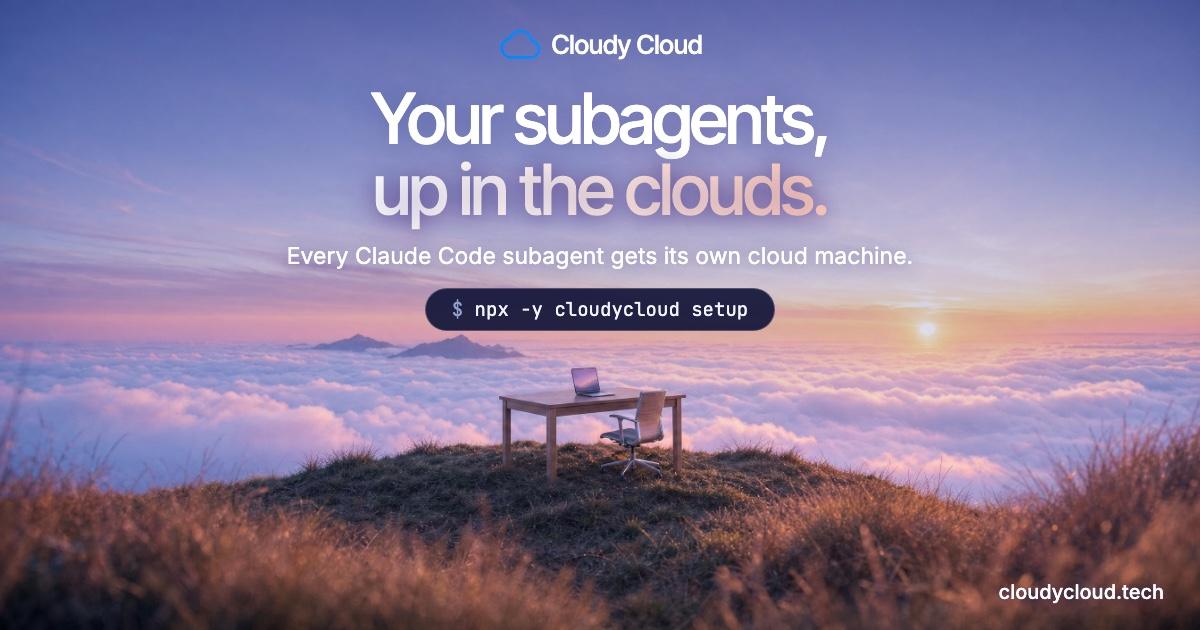
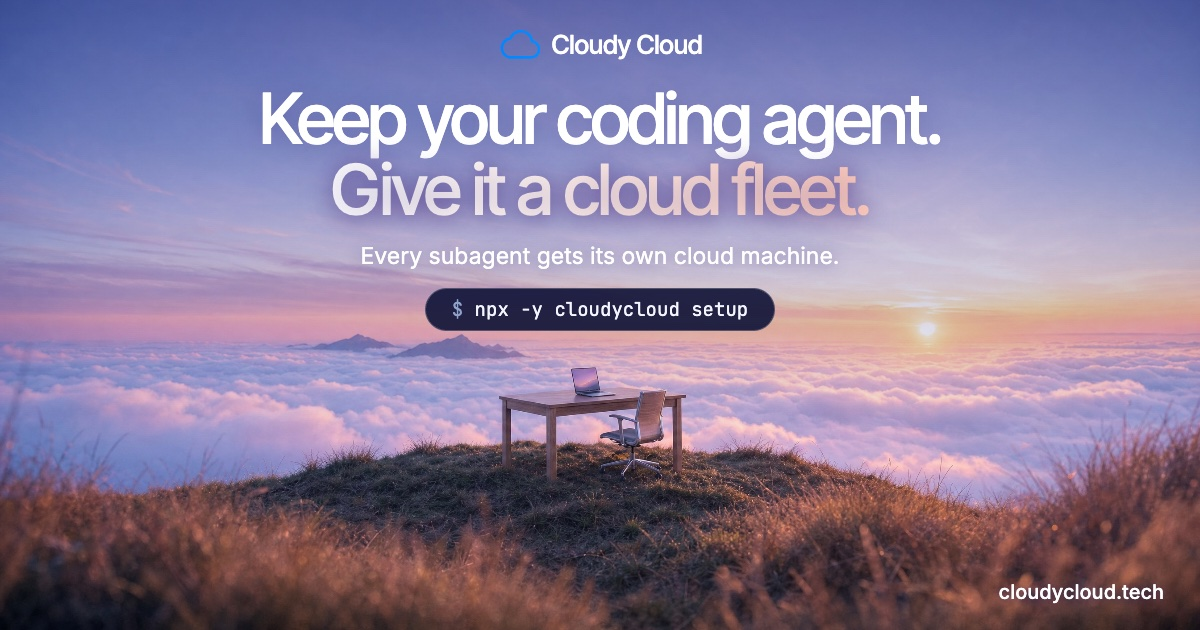
Site: new social card with the coding-agent headline, and a precise Capy machine cell
Astra review of 77486e6: the og.jpg card still showed the old headline, and
Capy subagents can share the parent's machine (docs.capy.ai/subagents), so
'an isolated VM per thread' overstated it.

Changed region(s): [[0.2158, 0.1508, 0.8017, 0.3619], [0.2158, 0.3921, 0.7708, 0.4222], [0.5242, 0.7238, 0.555, 0.754]]

diff --git a/site/index.html b/site/index.html
@@ -13,7 +13,7 @@
 <meta property="og:image" content="https://cloudycloud.tech/og.jpg">
 <meta property="og:image:width" content="1200">
 <meta property="og:image:height" content="630">
-<meta property="og:image:alt" content="Cloudy Cloud: your subagents, up in the clouds">
+<meta property="og:image:alt" content="Cloudy Cloud: keep your coding agent, give it a cloud fleet">
 <meta property="og:site_name" content="Cloudy Cloud">
 <meta name="twitter:card" content="summary_large_image">
 <meta name="twitter:image" content="https://cloudycloud.tech/og.jpg">
@@ -608,7 +608,7 @@
     <div class="tw" role="region" aria-label="Comparison table" tabindex="0">
       <table>
         <thead><tr><th scope="col">Product</th><th scope="col">Starts from your local coding agent session</th><th scope="col">One machine per subagent</th><th scope="col">Results land as</th><th scope="col">Models for workers</th><th scope="col">Hosted app, no setup</th></tr></thead>
-        <tbody><tr class="us"><th scope="row">Cloudy Cloud</th><td><svg width="16" height="16" viewBox="0 0 16 16" fill="none" stroke="currentColor" stroke-width="1.8" aria-hidden="true"><path d="M3 8.5l3.2 3L13 4.5"/></svg><span class="sr">Yes</span></td><td><svg width="16" height="16" viewBox="0 0 16 16" fill="none" stroke="currentColor" stroke-width="1.8" aria-hidden="true"><path d="M3 8.5l3.2 3L13 4.5"/></svg><span class="sr">Yes</span></td><td>A git branch per subagent</td><td>Claude or open models (GLM, DeepSeek, OpenRouter)</td><td>No, you run it yourself</td></tr><tr><th scope="row">Claude Code on the web</th><td>No, a separate cloud session</td><td>No, subagents share the session's machine</td><td>A branch and pull request</td><td>Claude only</td><td><svg width="16" height="16" viewBox="0 0 16 16" fill="none" stroke="currentColor" stroke-width="1.8" aria-hidden="true"><path d="M3 8.5l3.2 3L13 4.5"/></svg><span class="sr">Yes</span></td></tr><tr><th scope="row">Cloud sandboxes: Instabox, boat, Maritime, E2B, Daytona</th><td>No, you wire it up yourself</td><td>You build it</td><td>Files on the machine</td><td>Whatever you install</td><td>Machines and an API, not an agent</td></tr><tr><th scope="row">Hosted coding agents: Codex cloud, Cursor, Copilot, Devin</th><td>No, their own agent and app</td><td>One machine per task</td><td>A branch or pull request</td><td>The vendor's choice</td><td><svg width="16" height="16" viewBox="0 0 16 16" fill="none" stroke="currentColor" stroke-width="1.8" aria-hidden="true"><path d="M3 8.5l3.2 3L13 4.5"/></svg><span class="sr">Yes</span></td></tr><tr><th scope="row">Capy</th><td>No, Capy's own app and agent (web, desktop, Slack, Linear, GitHub)</td><td>Yes, an isolated VM per thread</td><td>A pull request, with Autofix for CI and review comments</td><td>Many: ChatGPT, Copilot or SuperGrok subscriptions, gateways such as OpenRouter, API keys</td><td><svg width="16" height="16" viewBox="0 0 16 16" fill="none" stroke="currentColor" stroke-width="1.8" aria-hidden="true"><path d="M3 8.5l3.2 3L13 4.5"/></svg><span class="sr">Yes</span></td></tr></tbody>
+        <tbody><tr class="us"><th scope="row">Cloudy Cloud</th><td><svg width="16" height="16" viewBox="0 0 16 16" fill="none" stroke="currentColor" stroke-width="1.8" aria-hidden="true"><path d="M3 8.5l3.2 3L13 4.5"/></svg><span class="sr">Yes</span></td><td><svg width="16" height="16" viewBox="0 0 16 16" fill="none" stroke="currentColor" stroke-width="1.8" aria-hidden="true"><path d="M3 8.5l3.2 3L13 4.5"/></svg><span class="sr">Yes</span></td><td>A git branch per subagent</td><td>Claude or open models (GLM, DeepSeek, OpenRouter)</td><td>No, you run it yourself</td></tr><tr><th scope="row">Claude Code on the web</th><td>No, a separate cloud session</td><td>No, subagents share the session's machine</td><td>A branch and pull request</td><td>Claude only</td><td><svg width="16" height="16" viewBox="0 0 16 16" fill="none" stroke="currentColor" stroke-width="1.8" aria-hidden="true"><path d="M3 8.5l3.2 3L13 4.5"/></svg><span class="sr">Yes</span></td></tr><tr><th scope="row">Cloud sandboxes: Instabox, boat, Maritime, E2B, Daytona</th><td>No, you wire it up yourself</td><td>You build it</td><td>Files on the machine</td><td>Whatever you install</td><td>Machines and an API, not an agent</td></tr><tr><th scope="row">Hosted coding agents: Codex cloud, Cursor, Copilot, Devin</th><td>No, their own agent and app</td><td>One machine per task</td><td>A branch or pull request</td><td>The vendor's choice</td><td><svg width="16" height="16" viewBox="0 0 16 16" fill="none" stroke="currentColor" stroke-width="1.8" aria-hidden="true"><path d="M3 8.5l3.2 3L13 4.5"/></svg><span class="sr">Yes</span></td></tr><tr><th scope="row">Capy</th><td>No, Capy's own app and agent (web, desktop, Slack, Linear, GitHub)</td><td>Usually. A subagent that writes code gets its own machine; others can share the parent's machine</td><td>A pull request, with Autofix for CI and review comments</td><td>Many: ChatGPT, Copilot or SuperGrok subscriptions, gateways such as OpenRouter, API keys</td><td><svg width="16" height="16" viewBox="0 0 16 16" fill="none" stroke="currentColor" stroke-width="1.8" aria-hidden="true"><path d="M3 8.5l3.2 3L13 4.5"/></svg><span class="sr">Yes</span></td></tr></tbody>
       </table>
     </div>
     <p class="cap">Based on each product's public docs, November 2026. Products change; check their docs for the latest.</p>

diff --git a/site/og/og-card.html b/site/og/og-card.html
@@ -17,7 +17,7 @@ p{font-size:23px;margin-top:16px;text-shadow:0 1px 18px rgba(60,50,130,.5)}
 .url{position:absolute;right:36px;bottom:26px;font-size:20px;font-weight:500;text-shadow:0 1px 10px rgba(60,40,100,.7)}
 </style></head><body><div class="c">
 <div class="brand"><svg viewBox="0 0 26 18" fill="none"><path d="M7 17h13.5a5 5 0 0 0 .6-9.96A7 7 0 0 0 7.6 5.2 6 6 0 0 0 7 17Z" stroke="url(#bg)" stroke-width="1.6"/><defs><linearGradient id="bg" x1="0" x2="26" y1="0" y2="0"><stop stop-color="#0087ff"/><stop offset="1" stop-color="#87ffff"/></linearGradient></defs></svg>Cloudy Cloud</div>
-<h1>Your subagents,<br><em>up in the clouds.</em></h1>
-<p>Every Claude Code subagent gets its own cloud machine.</p>
+<h1>Keep your coding agent.<br><em>Give it a cloud fleet.</em></h1>
+<p>Every subagent gets its own cloud machine.</p>
 <div class="pill"><span>$</span> npx -y cloudycloud setup</div>
 </div><div class="url">cloudycloud.tech</div></body></html>

diff --git a/site/index.md b/site/index.md
@@ -130,7 +130,7 @@ Cloud sandboxes give you machines. Hosted agents give you their own agent in the
 | Claude Code on the web | No, a separate cloud session | No, subagents share the session's machine | A branch and pull request | Claude only | Yes |
 | Cloud sandboxes: Instabox, boat, Maritime, E2B, Daytona | No, you wire it up yourself | You build it | Files on the machine | Whatever you install | Machines and an API, not an agent |
 | Hosted coding agents: Codex cloud, Cursor, Copilot, Devin | No, their own agent and app | One machine per task | A branch or pull request | The vendor's choice | Yes |
-| Capy | No, Capy's own app and agent (web, desktop, Slack, Linear, GitHub) | Yes, an isolated VM per thread | A pull request, with Autofix for CI and review comments | Many: ChatGPT, Copilot or SuperGrok subscriptions, gateways such as OpenRouter, API keys | Yes |
+| Capy | No, Capy's own app and agent (web, desktop, Slack, Linear, GitHub) | Usually. A subagent that writes code gets its own machine; others can share the parent's machine | A pull request, with Autofix for CI and review comments | Many: ChatGPT, Copilot or SuperGrok subscriptions, gateways such as OpenRouter, API keys | Yes |
 
 Based on each product's public docs, November 2026. Products change; check their docs for the latest.
 
